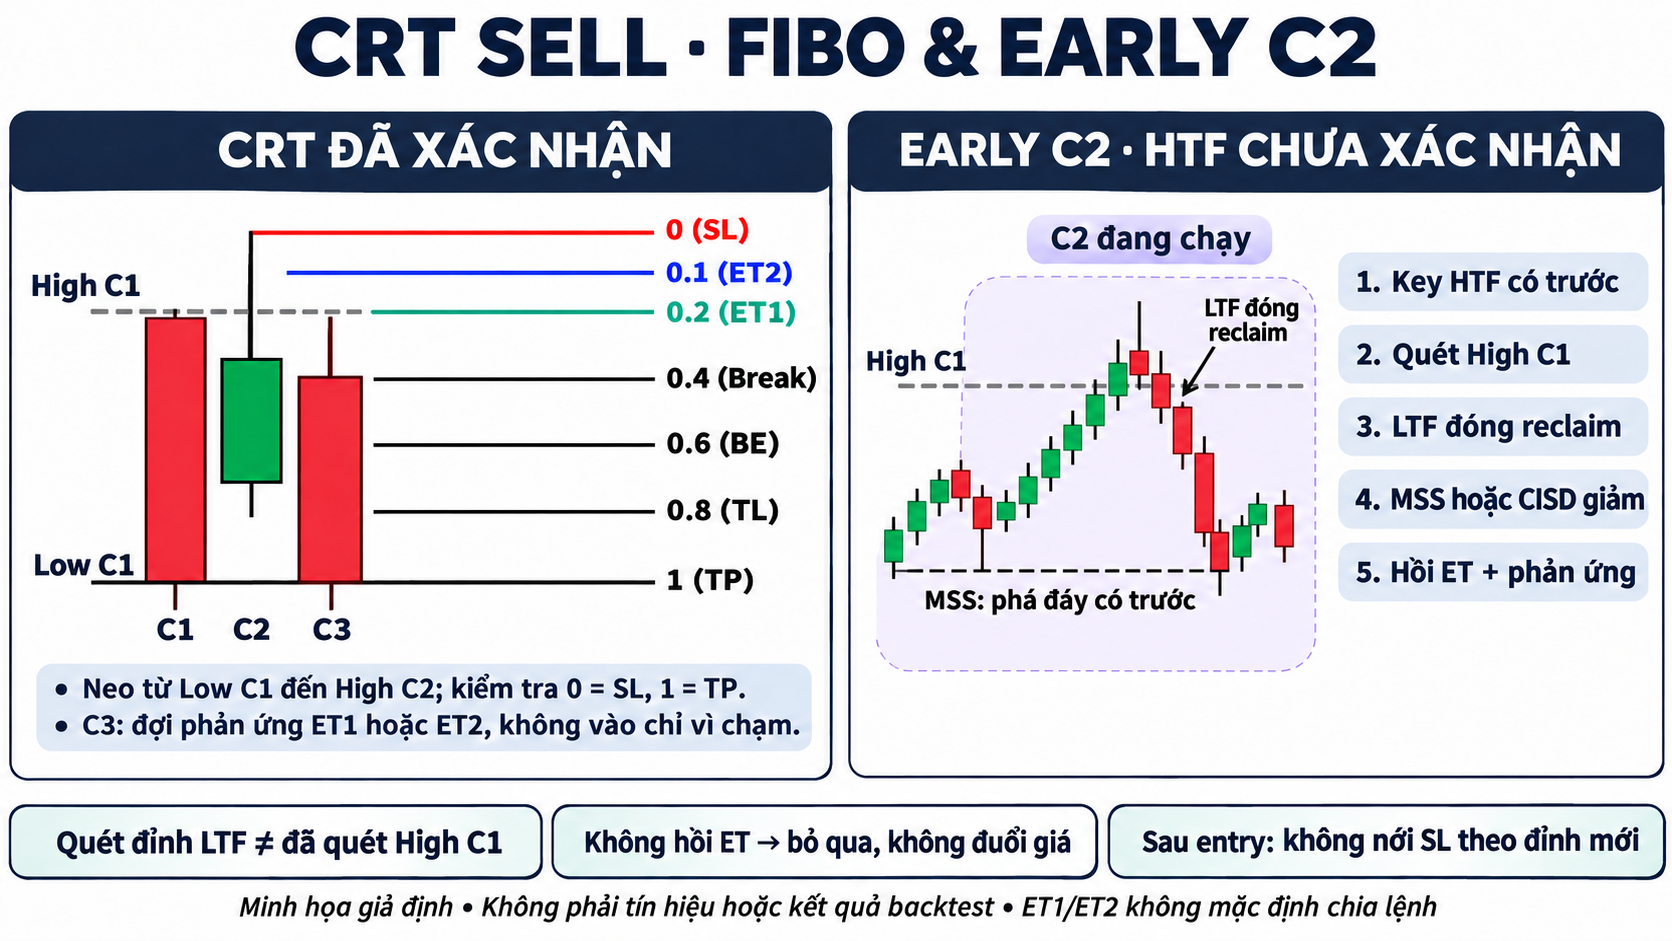
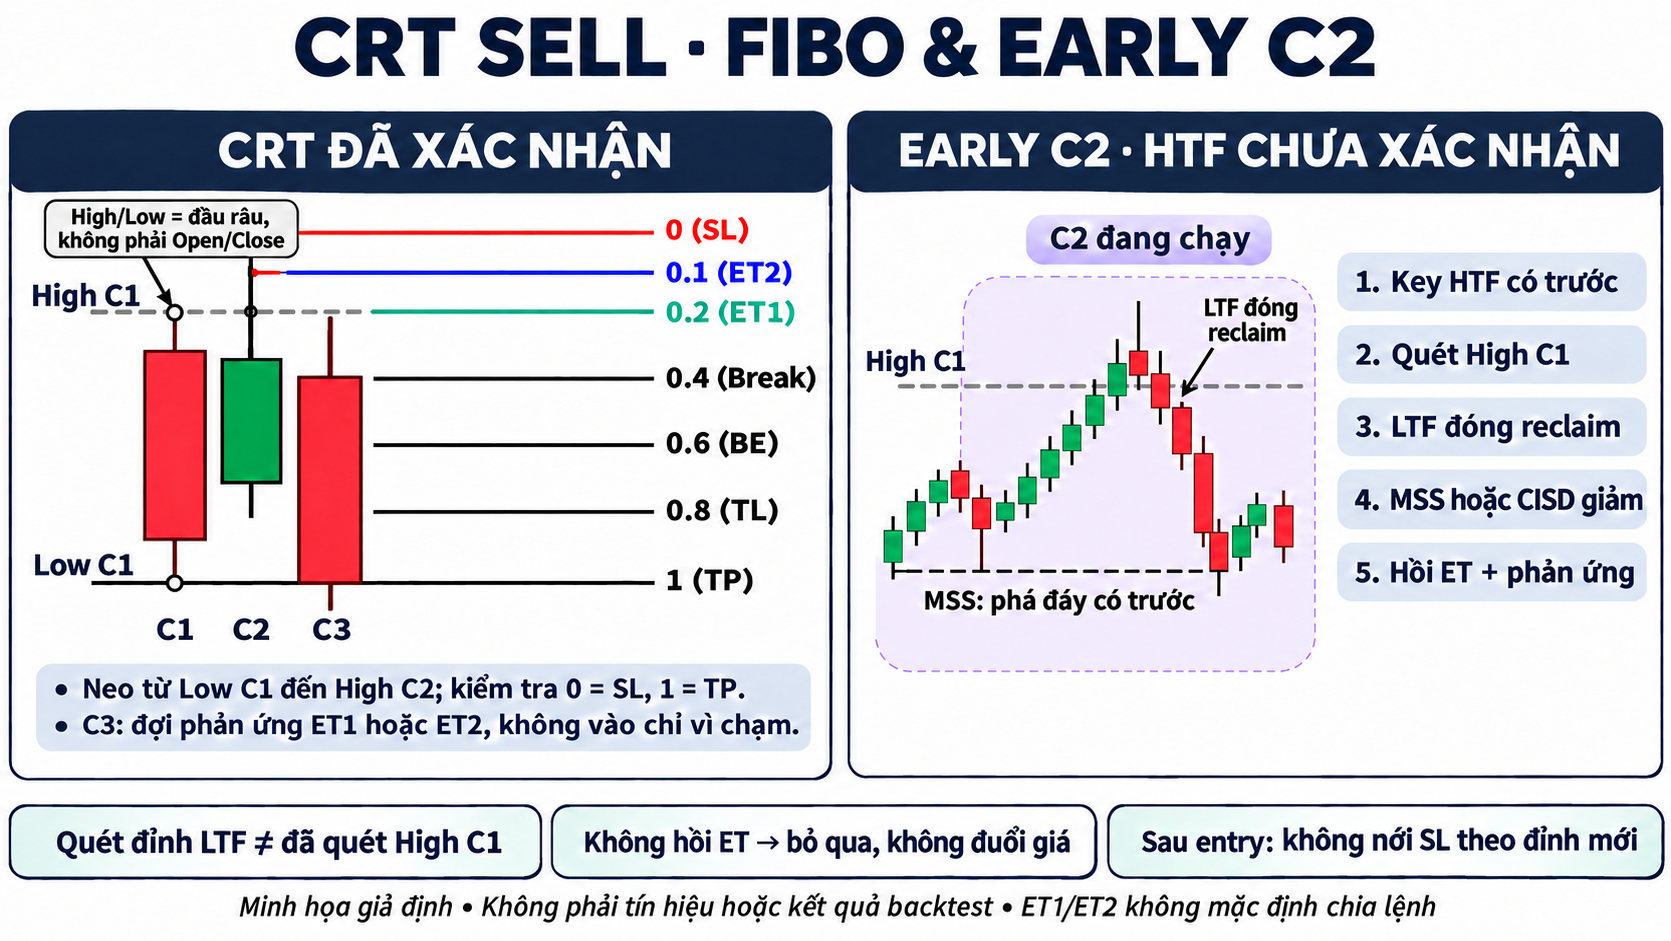
Correct wick-tip illustration anchors and add EGF ISB fibo examples

diff --git a/docs/ILLUSTRATION-PROMPTS.md b/docs/ILLUSTRATION-PROMPTS.md
@@ -1,5 +1,7 @@
 # Bộ ảnh minh họa ngày 17/11/2026
 
+Hiệu chỉnh theo yêu cầu người dùng: các ảnh CRT và range/mother đã thay bằng bản có điểm neo đầu râu. Bổ sung hai ảnh nến riêng EGF và ISB bên dưới, thay thế ảnh đường giá tổng quát trong hướng dẫn fibo. Không thay logic Pine.
+
 Dùng **imagegen built-in**. Đây là ảnh giả định để học quy trình, không phải dữ liệu thị trường hoặc screenshot chứng minh thuật toán đã chạy. Ảnh có thể sai lệch khoảng cách/chi tiết nhỏ do AI dựng; dùng mức số và công thức trong tài liệu để đo giá thực tế, không đo pixel trên ảnh. Bản cuối được lưu trong workspace; các bản nháp không đưa vào tài liệu.
 
 ## 1. CRT fibo và Early C2
@@ -31,3 +33,23 @@ Prompt bàn giao:
 > Create a Vietnamese synthetic diagram FIBO SELL · NEO THEO KỊCH BẢN, three cards. EGF reaction at HTF OB/FVG: 0 at reaction invalidation, 1 at chosen ERL. ISB false break: 0 at false-break extreme, 1 at opposite mother boundary. ISB breakout Sell: mother above, break below then retest, 0 at local breakout invalidation, 1 at external liquidity BELOW mother, never the opposite mother boundary against the trade. Blue ET2 0.1 is closer to SL than teal ET1 0.2. For each card place ET at y0 + r × (y1 − y0), keeping anchors unchanged; labels must not overlap. Preserve conditions: ET is a waiting location, no sweep means do not call 0 a sweep high, no automatic adding two entries. White background, navy titles, large Vietnamese text, price-path sketches only, no real prices or backtest claims.
 
 Hiệu chỉnh đã thực hiện: ET kéo lại gần SL theo tỷ lệ; bản đồ giá thực tế luôn dùng `SL + r × (TP − SL)`, không dùng tỷ lệ pixel của sơ đồ AI.
+
+## 4. Fibo EGF Sell và Buy — bản nến
+
+Tệp: [fibo-egf-buy-sell.png](images/fibo-egf-buy-sell.png). Công cụ: imagegen built-in.
+
+Prompt bàn giao:
+
+> Create a Vietnamese educational candlestick infographic FIBO EGF · SELL & BUY. Two panels with visible upper/lower wicks, fictional prices, no OHLC tables. Every anchor circle is at an actual wick tip, never a body edge. Sell example: reaction High110 is SL0, ET2=109, ET1=108, prior ERL Low100 is TP1. Buy: reaction Low100 is SL0, ET2=101, ET1=102, prior ERL High110 is TP1. Fibo maps actual reaction invalidation to chosen ERL, not automatically two ends of the EGF candle. Show an HTF reaction zone and engulfing bodies. Wait for LTF confirmation, ET pullback and reaction. Hollow source circles at wick extremes; no wick extends beyond its own anchor. White/navy professional layout, no profit claims.
+
+Hiệu chỉnh: bỏ bảng OHLC do AI tự thêm, giữ chart và chú giải neo bằng râu. Giá là ví dụ giả định, không phải dữ liệu giao dịch.
+
+## 5. Fibo ISB false break và breakout — bản nến
+
+Tệp: [fibo-isb-falsebreak-breakout.png](images/fibo-isb-falsebreak-breakout.png). Công cụ: imagegen built-in.
+
+Prompt bàn giao:
+
+> Create FIBO ISB · FALSE BREAK & BREAKOUT, two accurate synthetic candlestick panels. Sell false break: mother High108 Low100 includes both wicks; source body102..106 stays inside. Later wick sweeps110 and closes inside mother. SL0 at sweep wick110, ET2=109, ET1=108, TP1 at mother lower wick100. Buy breakout: mother High106 Low100 including wicks, close above106, later retest lower wick105 and close above106. SL0 at that local retest wick105, ET2=106, ET1=107, TP1 at prior ERL high wick115 outside mother. All High/Low anchors use hollow circles at wick tips. Target for breakout is outside range in breakout direction, not opposite mother boundary. Wait for LTF confirmation and ET reaction; ET levels do not automatically split orders. White/navy readable Vietnamese, fictional prices, no backtest claims.
+
+Ảnh CRT được sửa riêng để C1 có râu trên/dưới rõ và Low C1 kết thúc đúng tại TP; ảnh range/mother đánh dấu cả sáu cực trị mother bằng vòng tròn. Không lấy mép thân thay cho High/Low.

diff --git a/docs/FIBO-CONVENTION.md b/docs/FIBO-CONVENTION.md
@@ -20,6 +20,8 @@ Không tiếp tục dùng tên SL cho mức 0.1 hoặc ET cho mức 0.2 trong qu
 
 CRT Sell: kéo từ **Low C1 (anchor)** đến **High C2 (cực trị sweep)**, kiểm tra trên công cụ rằng High C2 có nhãn 0/SL và Low C1 có nhãn 1/TP. Buy đọc đối xứng. Giá tại mức r được tính từ SL tới TP: `SL + r × (TP − SL)`. Vì vậy với Sell, ET2/0.1 cao hơn ET1/0.2 và gần SL hơn. Không suy ra số lot từ độ rộng hình vẽ.
 
+**High/Low lấy toàn bộ râu nến:** High là đầu râu trên, Low là đầu râu dưới, không phải Open/Close. Quy tắc này áp dụng cho C1, C2, mother, cực trị phản ứng và ERL được chọn. Điểm tròn trong ảnh đánh dấu cực trị nguồn. Nếu nến không có râu ở một phía thì cực trị có thể trùng mép thân; ảnh có râu phải neo đến đầu râu.
+
 - **CRT Confirmed:** C2 HTF đã quét và đóng trong range C1; sang C3 chờ hồi và phản ứng tại một trong hai ET, cùng điều kiện entry LTF đã chọn. Không bắt buộc C3 sẽ hồi đủ hoặc đạt TP.
 - **Early C2:** HTF chưa xác nhận. Cần key HTF có trước, thực sự vượt High C1 đối với Sell, LTF đã đóng reclaim, MSS hoặc CISD giảm, rồi hồi ET và phản ứng. Quét một đỉnh LTF chưa vượt High C1 không là sweep của CRT HTF đó. Đây là nhánh riêng cần thống kê riêng, không gọi là CRT Confirmed.
 - Trước entry, đỉnh C2 và fibo còn tạm; đỉnh mới yêu cầu đánh giá lại sweep/reclaim/xác nhận. Sau entry, không nới SL theo đỉnh mới. Cực trị chart khác giá stop thực thi nếu có tick buffer/slippage; phải tính tổng rủi ro trước.
@@ -48,4 +50,6 @@ Các mục trên là quy trình cá nhân được lưu ngày 17/11/2026, chưa 
 
 ![CRT fibo và Early C2](images/crt-fibo-early-c2.png)
 
-![Neo fibo cho EGF và ISB](images/fibo-egf-isb.png)
+![Fibo EGF Sell và Buy, neo đầu râu](images/fibo-egf-buy-sell.png)
+
+![Fibo ISB false break Sell và breakout Buy, neo đầu râu](images/fibo-isb-falsebreak-breakout.png)
